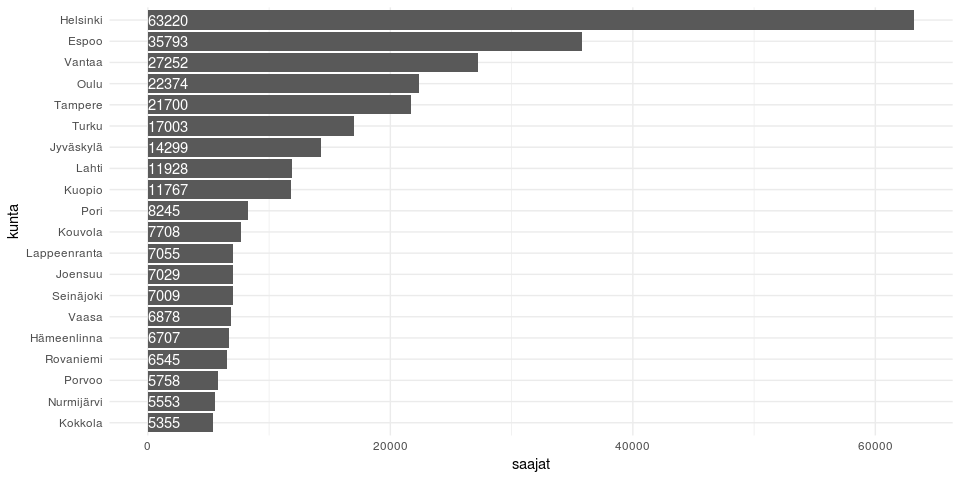
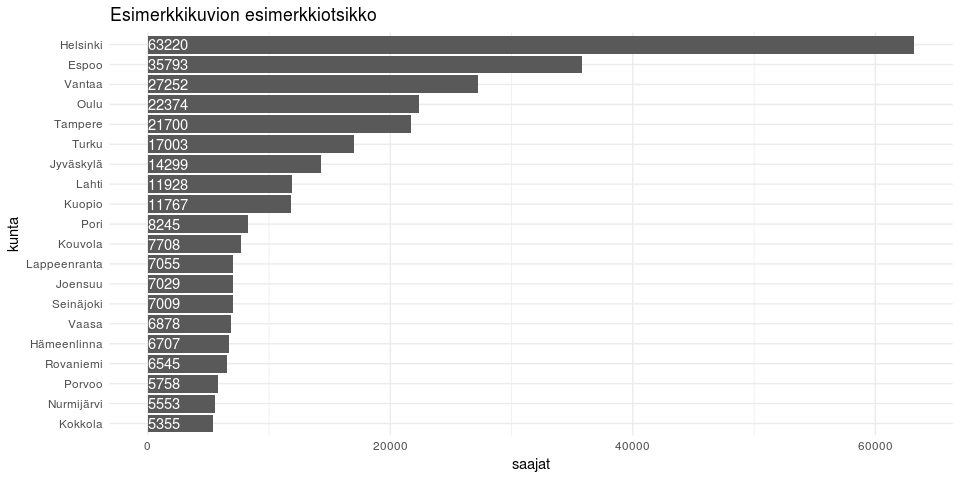
tiiviimpi esimerkki

Changed region(s): [[0.0, 0.0, 0.9688, 0.9062]]

diff --git a/2019-02-18-kelan-etuudet-ja-saajat/2019-02-18-kelan-etuudet-ja-saajat.md b/2019-02-18-kelan-etuudet-ja-saajat/2019-02-18-kelan-etuudet-ja-saajat.md
@@ -28,13 +28,8 @@ Datan ja metadatan lataaminen
     ckanr_setup(url = "https://beta.avoindata.fi/data/fi/")
     x <- package_search(q = "Kansaneläkelaitos", fq = "title:etuuksien")
     resources <- x$results[[1]]$resources
-    resources[[1]]$name
-
-    ## [1] "Kelan etuudet ja saajat"
-
-    resources[[2]]$name
-
-    ## [1] "Metadata"
+    # resources[[1]]$name
+    # resources[[2]]$name
 
     dat <- readr::read_csv2(resources[[1]]$url)
     meta <- fromJSON(txt = resources[[2]]$url)
@@ -42,47 +37,155 @@ Datan ja metadatan lataaminen
 Datan ja metadatan kuvailu
 ==========================
 
-    meta$profile
-
-    ## [1] "data-package"
-
-    meta$name
-
-    ## [1] "Kelan etuudet ja saajat"
-
-    meta$title
-
-    ## [1] "Kelan etuuksien saajat ja etuusmäärät"
-
-    meta$description
-
-    ## [1] "Raportti sisältää kaikki Kelan maksamat keskeisimmät etuudet sekä tiedot etuuksien saajista, maksetuista etuuksista ja keskimääräiset etuudet (euroa/saaja).\nEräistä etuuksista, esimerkiksi eläkkeet ja asumistuet, ei ole tietoa vuoden aikana etuutta saaneista eikä keskimääräisistä etuuksista. Niistä on vain poikkileikkaustiedot kuukausittain.\n"
-
     # Datan muuttujatieto
-    meta$resources$schema$fields[[1]]
+    meta$resources$schema$fields[[1]] %>% kable(format = "markdown")
 
-    ##          name    type  format
-    ## 1       vuosi integer default
-    ## 2       etuus  string default
-    ## 3      saajat  string default
-    ## 4 euroa_saaja  string default
-    ## 5       kunta  string default
+<table>
+<colgroup>
+<col width="40%" />
+<col width="40%" />
+<col width="9%" />
+<col width="9%" />
+</colgroup>
+<thead>
+<tr class="header">
+<th align="left">name</th>
+<th align="left">title</th>
+<th align="left">type</th>
+<th align="left">format</th>
+</tr>
+</thead>
+<tbody>
+<tr class="odd">
+<td align="left">kunta</td>
+<td align="left">Kunnan nimi suomeksi</td>
+<td align="left">string</td>
+<td align="left">default</td>
+</tr>
+<tr class="even">
+<td align="left">vuosi</td>
+<td align="left">vuosi</td>
+<td align="left">integer</td>
+<td align="left">default</td>
+</tr>
+<tr class="odd">
+<td align="left">ruokakuntatyyppi</td>
+<td align="left">Ruokakuntatyyppi</td>
+<td align="left">string</td>
+<td align="left">default</td>
+</tr>
+<tr class="even">
+<td align="left">saajaruokakunnat</td>
+<td align="left">Saajaruokakunnat</td>
+<td align="left">number</td>
+<td align="left">default</td>
+</tr>
+<tr class="odd">
+<td align="left">asumistuki_keskim_euroa_kk</td>
+<td align="left">Keskimääräinen asumistuki e/kk</td>
+<td align="left">integer</td>
+<td align="left">default</td>
+</tr>
+<tr class="even">
+<td align="left">asumismenot_keskim_euroa_kk</td>
+<td align="left">Keskim. asumismenot e/kk</td>
+<td align="left">integer</td>
+<td align="left">default</td>
+</tr>
+<tr class="odd">
+<td align="left">asumistukitulo_keskim_euroa_kk</td>
+<td align="left">Keskim. asumistukitulo e/kk</td>
+<td align="left">integer</td>
+<td align="left">default</td>
+</tr>
+<tr class="even">
+<td align="left">asumismenot_ennen_asumistukea_pros</td>
+<td align="left">Asumismenot ennen asumistukea %</td>
+<td align="left">integer</td>
+<td align="left">default</td>
+</tr>
+<tr class="odd">
+<td align="left">asumismenot_asumistuen_jalkeen_pros</td>
+<td align="left">Asumismenot asumistuen jälkeen %</td>
+<td align="left">integer</td>
+<td align="left">default</td>
+</tr>
+<tr class="even">
+<td align="left">asumismenot_keskim_e_m2_kk</td>
+<td align="left">Keskim. asumismenot e/m2/kk</td>
+<td align="left">number</td>
+<td align="left">default</td>
+</tr>
+<tr class="odd">
+<td align="left">asunnon_keskim_pintaala_m2_asunto</td>
+<td align="left">Asunnon keskim. pinta-ala m2/asunto</td>
+<td align="left">number</td>
+<td align="left">default</td>
+</tr>
+</tbody>
+</table>
 
     # Datan ensimmäiset rivit 
-    head(dat)
+    head(dat)  %>% kable(format = "markdown")
 
-    ## # A tibble: 6 x 5
-    ##   vuosi etuus                          saajat euroa_saaja kunta
-    ##   <dbl> <chr>                           <dbl>       <dbl> <chr>
-    ## 1  2018 Elatustuki                         NA    NA       Akaa 
-    ## 2  2018 Eläke-etuudet (pl. takuueläke)     NA    NA       Akaa 
-    ## 3  2018 Eläketuki                          NA    NA       Akaa 
-    ## 4  2018 Eläkkeensaajan asumistuki          NA    NA       Akaa 
-    ## 5  2018 Erityishoitoraha                   22     2.38e16 Akaa 
-    ## 6  2018 Koulumatkatuki                    434     7.23e16 Akaa
+<table>
+<thead>
+<tr class="header">
+<th align="right">vuosi</th>
+<th align="left">etuus</th>
+<th align="right">saajat</th>
+<th align="right">euroa_saaja</th>
+<th align="left">kunta</th>
+</tr>
+</thead>
+<tbody>
+<tr class="odd">
+<td align="right">2018</td>
+<td align="left">Elatustuki</td>
+<td align="right">NA</td>
+<td align="right">NA</td>
+<td align="left">Akaa</td>
+</tr>
+<tr class="even">
+<td align="right">2018</td>
+<td align="left">Eläke-etuudet (pl. takuueläke)</td>
+<td align="right">NA</td>
+<td align="right">NA</td>
+<td align="left">Akaa</td>
+</tr>
+<tr class="odd">
+<td align="right">2018</td>
+<td align="left">Eläketuki</td>
+<td align="right">NA</td>
+<td align="right">NA</td>
+<td align="left">Akaa</td>
+</tr>
+<tr class="even">
+<td align="right">2018</td>
+<td align="left">Eläkkeensaajan asumistuki</td>
+<td align="right">NA</td>
+<td align="right">NA</td>
+<td align="left">Akaa</td>
+</tr>
+<tr class="odd">
+<td align="right">2018</td>
+<td align="left">Erityishoitoraha</td>
+<td align="right">22</td>
+<td align="right">2.380646e+16</td>
+<td align="left">Akaa</td>
+</tr>
+<tr class="even">
+<td align="right">2018</td>
+<td align="left">Koulumatkatuki</td>
+<td align="right">434</td>
+<td align="right">7.226750e+16</td>
+<td align="left">Akaa</td>
+</tr>
+</tbody>
+</table>
 
-Kuvio1
-======
+Kuvio
+=====
 
     library(ggplot2)
     dat %>% 
@@ -91,7 +194,11 @@ Kuvio1
       arrange(desc(saajat)) %>% 
       slice(1:20) %>% 
       mutate(kunta = forcats::fct_reorder(kunta, saajat)) %>% 
-      ggplot(aes(x = kunta, y = saajat, label = saajat)) + geom_col() + coord_flip() + theme_minimal() +
-      geom_text(aes(y = 0), hjust = 0, color = "white")
+      ggplot(aes(x = kunta, y = saajat, label = saajat)) + 
+      geom_col() + 
+      coord_flip() + 
+      theme_minimal() +
+      geom_text(aes(y = 0), hjust = 0, color = "white") +
+      labs(title = "Esimerkkikuvion esimerkkiotsikko")
 
 ![](2019-02-18-kelan-etuudet-ja-saajat_files/figure-markdown_strict/kuva1-1.png)
